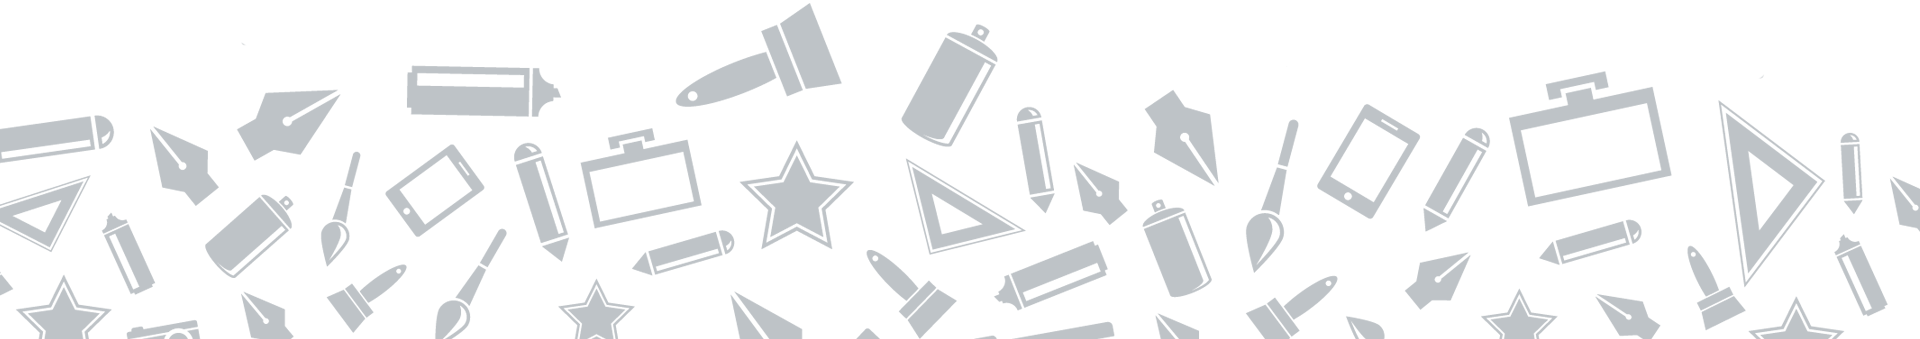
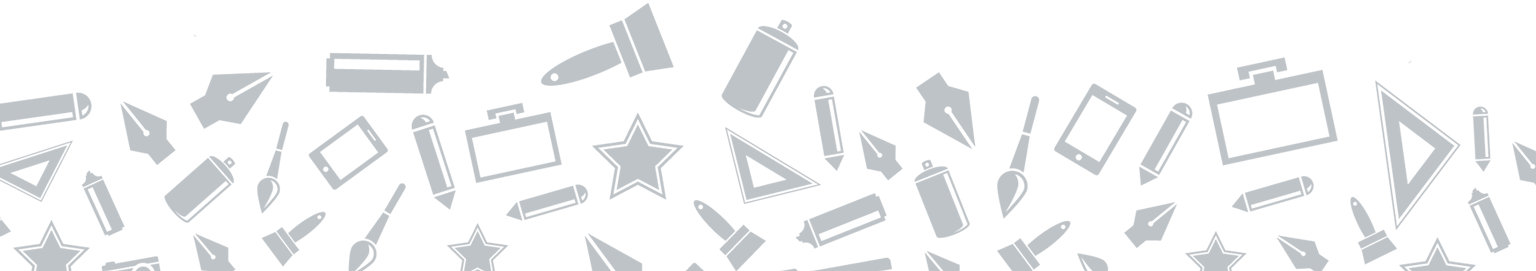
updates to index and acknowledgements last for today

diff --git a/css/index.css b/css/index.css
@@ -15,10 +15,6 @@
   text-align: center;
 }
 
-.newsletter-title {
-
-}
-
 .newsletter-div h3 {
   color: white;
   font-size: 200%;
@@ -58,6 +54,30 @@
   cursor: pointer;
 }
 
+.about-div {
+  padding: 25px;
+  text-align: center;
+  background-color: #2196F3;
+  border-bottom: solid #324376 5px;
+}
+
+.about-div h2 {
+  color: white;
+  font-size: 220%;
+  margin: 10px;
+  margin-bottom: 20px;
+  letter-spacing: 1px;
+  text-transform: uppercase;
+}
+
+.about-div p {
+  color: white;
+  width: 80%;
+  margin: auto 10% auto 10%;
+  line-height: 180%;
+  font-size: 120%;
+}
+
 @media (max-width: 886px) {
   .intro-screen {
     height: 35vh;
@@ -70,11 +90,40 @@
     height: 33vh;
     padding-top: 8em;
   }
+.newsletter-div h3 {
+  font-size: 160%;
+}
+.newsletter-div p {
+  font-size: 95%;
+}
+.newsletter-form {
+  padding: 3px;
+}
+.newsletter-form input {
+  font-size: 95%;
+  width: auto;
+}
+.newsletter-form button {
+  font-size: 95%;
+  padding: 8px 10px 8px 10px;
+}
 }
 
 @media (max-width: 440px) {
   .intro-screen {
     height: 30vh;
     padding-top: 6em;
+  }
+}
+
+@media (max-width: 600px) {
+  .about-div {
+    padding: 15px;
+  }
+  .about-div h2 {
+    font-size: 180%;
+  }
+  .about-div p {
+    font-size: 100%;
   }
 }

diff --git a/index.html b/index.html
@@ -108,6 +108,11 @@
     </section>
   </div>
 
+  <div class="about-div">
+    <h2>Build, Share, Explore.</h2>
+      <p>DIYmatic is the perfect place to share and find guides and inspiration for your own DIY projects. Explore other people's guides for inspiration on your next DIY project. Have your own awesome project? Publish your own guide and share your DIY Guide with everyone.</p>
+  </div>
+
   <div class="guide-div">
     <h1>Featured Guides</h1>
       <p class="guide-desc">The best guides just for you</p>

diff --git a/acknowledgements.html b/acknowledgements.html
@@ -130,6 +130,9 @@
     <p>Giving DIY inspiration to our guides</p>
       <a href="http://www.instructables.com/">http://www.instructables.com/</a>
 
+  <h4>Travis Churchill</h4>
+    <p>For the custom graphics for our project</p>
+
   <h4>Thwaite</h4>
     <p>Plug Icon</p>
       <a href="https://thwaite.net/wp-content/uploads/2013/06/plug-logo-basic-print-resolution-300x262.png">https://thwaite.net/wp-content/uploads/2013/06/plug-logo-basic-print-resolution-300x262.png</a>

diff --git a/css/grid.css b/css/grid.css
@@ -1,8 +1,12 @@
 .guide-div {
   padding: 20px;
-  margin-bottom: 10px;
+  margin-bottom: 0;
   text-align: center;
   background-color: #F6F6F6;
+  background-image: url("https://eckels.github.io/DIYmatic/img/bottom.png");
+  background-position: bottom;
+  background-repeat: no-repeat;
+  margin-bottom: 0;
 }
 
 .guide-div h1 {

diff --git a/css/intro.css b/css/intro.css
@@ -4,6 +4,10 @@
   line-height: 230px;
   text-align: center;
 }
+b {
+  margin-left: 5px;
+  padding-right: 5px;
+}
 .cd-title h1 {
   font-size: 100%;
   font-weight: normal;
